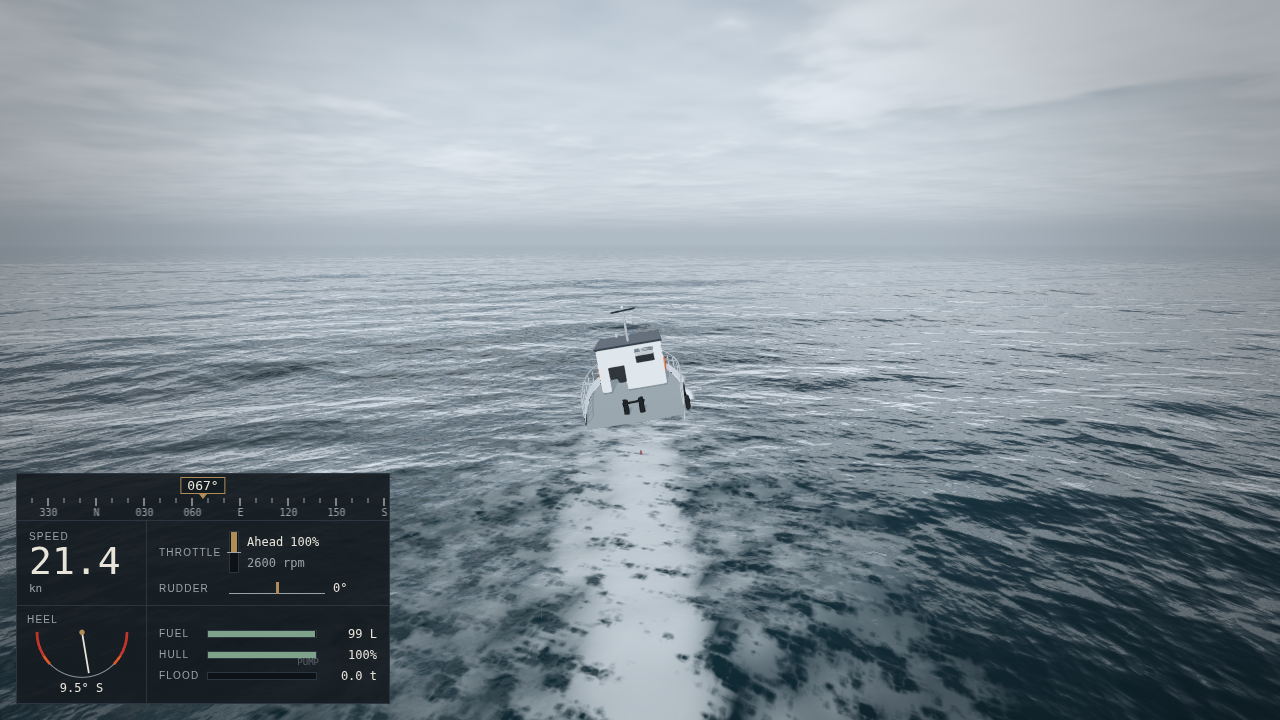
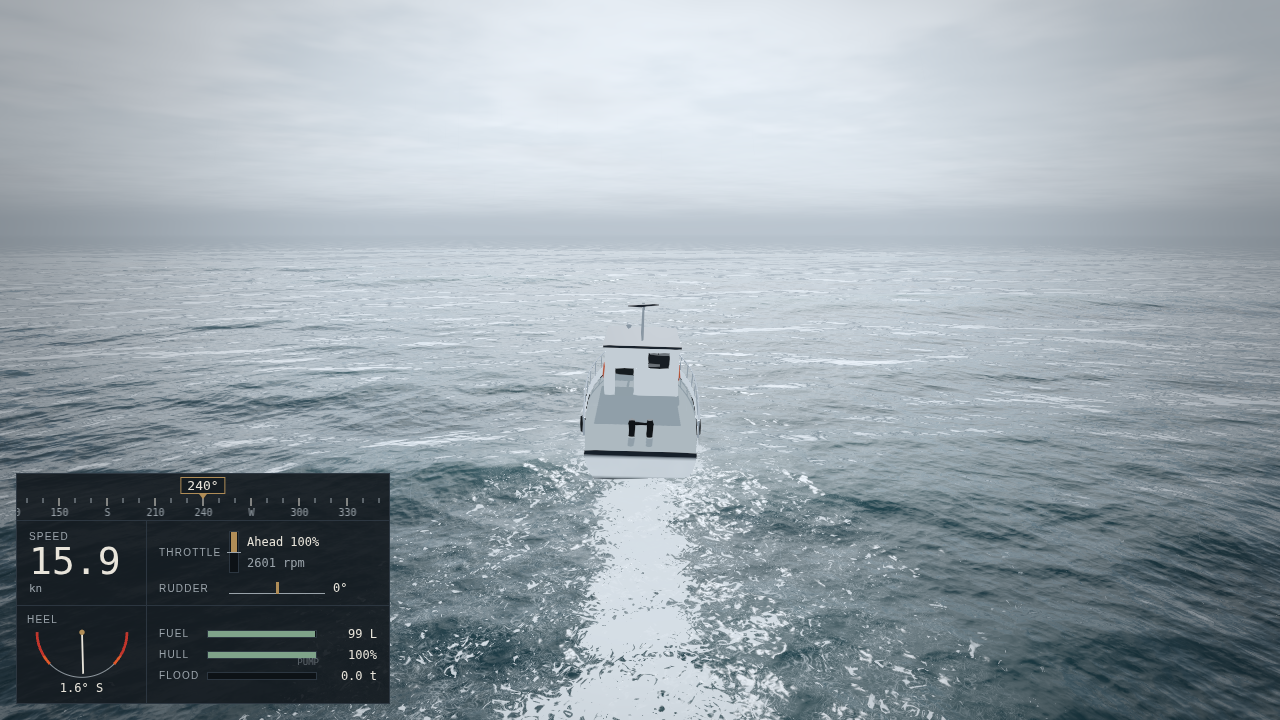
V3 docs: PROGRESS, CHANGELOG, README controls, screenshots
Claude-Session: https://claude.ai/code/session_017Su6rcrj4izoRMC3peEWqU

diff --git a/docs/PROGRESS.md b/docs/PROGRESS.md
@@ -1,48 +1,45 @@
 # Breakwater — Progress
 
 ## Current milestone
-**V2 — Boat physics: complete.** Next session starts **V3 — Towing & rescue mechanics**.
+**V3 — Towing & rescue: complete.** Next session starts **V4 — World & career**.
 
-## NEXT (V3)
-1. `TowLine.js`: spring-damper with slack (k from 15% stretch at break), snatch loads, 0.25 s / 1.5× break rules, winch Q/Z (10–120 m), auto-tension upgrade hook. Attach with Space (8 m, < 3 kn) at the `towPoint`/`bowCleat` empties.
-2. `RopeVisual.js`: 40-node Verlet rope, floats on the surface, straightens and drips when taut.
-3. `TowTarget.js`: sailboat + trawler hulls reusing `HullShape`/`BoatPhysics` (32 buoyancy points, no engine).
-4. Survivors (bobbing, drifting), life raft, pull-aboard (E), hypothermia timers, capacity.
-5. Flooding (deck-edge immersion, free-surface shift), pumps, hull damage + grounding (needs seabed stub until V4 depth map), repairs.
-6. Tow panel HUD; F8 scenario spawner.
-7. Physics tests: Marlin tows trawler ~8 kn; snatch ratio > 2× in Rough; break at rating; auto-tension −30% peak.
-8. Scripted scenario test (autopilot helper) for one tow and one rescue.
+## NEXT (V4)
+1. The Grey Reach: `DepthMap.js` from a real depth map (replaces the V3 shoal stub), islands/terrain, shallows and reefs (grounding already works against `depthAt`), harbors + piers, buoys, lighthouses, vegetation, ambient traffic.
+2. Jobs (6 types) on top of `Operations` (tow + rescue rules already exist), radio, job board, reputation, economy, shipyard, upgrades (auto-tension winch = `TowLine.autoTension`, autopilot = `Autopilot.js`), save/load.
+3. Chart (M), minimap, guided first job (spec 15); repairs move from the F8 stub to the port.
+4. Kestrel and Bulwark configs + physics tests; container targets (8 buoyancy points, 3 daisy-chained lines).
+5. `npm run sim:economy`.
 
 ## Known issues
+- Towing from the aft bitt makes the Marlin yaw off course under load (it "girts"); realistic, but the player needs rudder. Revisit with a tow hook further forward if it feels bad.
+- Rope visual reads well to ~150 m; beyond that it thins to a 1 px line.
+- Survivors aboard are drawn seated on the aft deck, not animated.
+- Target collisions use the same 4-piece convex hulls; contact damage threshold (45 kN) is a guess until V4 docking.
 - Night storm readability waits on V5 lights (searchlight, running lights, flares).
-- Marlin still rolls ±5–10° in Calm chop at speed (quartering sea near roll resonance). Acceptable, tender realistic hull; revisit if it feels wrong in play.
-- Storm at full throttle heels 40–55° but rarely capsizes within 90 s: storms become truly dangerous once V3 flooding (deck-edge water + free surface) lands.
-- Close-range crest foam texture reads slightly "marbled".
-- Hull-number decals are small; barely visible in chase view.
-- Headless verify renders at ~4 fps, so the sim runs at half speed there (MAX_STEPS cap); real play is 60 Hz.
-- Blender is not installed in the cloud env: `tools/blender/generate_boats.py` is written but untested; the game uses the procedural model (manifest lists no .glb).
+- Headless verify renders at ~4 fps; screenshots are staged with `advance()` and paused frames (spec 0.2 allows setup placement).
+- Blender is not installed in the cloud env: generators untested; the game uses procedural models.
 
 ## Screenshot review (`docs/shots/`)
-- `v1-calm-noon.png`, `v1-rough-golden.png`, `v1-storm-night.png`: unchanged from V1 (see CHANGELOG).
-- `v2-rough-pitching.png`: Marlin side-on in Rough, bow lifting over a swell. Model is clean but plain (procedural).
-- `v2-wake.png`: turbulent white wake with breakup and faint Kelvin arms. Wake could be narrower near the transom.
-- `v2-bow-spray.png`: head seas in Rough; slam spray lit grey-white by the overcast. Spray particles are soft discs; fine at gameplay distance.
+- `v1-*`: unchanged scenes; the new Worley foam reads as froth rather than marble in `v1-rough-golden`.
+- `v2-rough-pitching.png`, `v2-wake.png`: hull now carries waterline grime and dirt runs; the wake is bubbly froth with lacy edges; water is darker against the hull.
+- `v2-bow-spray.png`: slam spray now shows droplet streaks plus mist (droplets were invisible before).
+- `v3-tow-taut.png`: Marlin towing the trawler in Rough on 28 m of line, line taut (10 kN), tow panel up. Trawler model is simple but reads.
+- `v3-pull-aboard.png`: survivor being hauled up the Marlin's side (60%), hypothermia bar and prompt visible.
 
-## Decisions (V2)
-- **D15 Hull form:** one parametric hull (superellipse sections, `HullShape.js`) shared by rendering, voxelization, colliders and the Blender generator, so visual and physics waterlines always match.
-- **D16 Marlin draft 0.75 → 0.55 m, fullness 2.8 → 2.0:** at 0.75 m the hull displaced 17.9 m³ vs the 8.8 m³ that 9 t needs. Now the volume scale factor is 0.94 (physically consistent) instead of 0.49.
-- **D17 Voxel symmetry:** starboard half clustered then mirrored (60 points) — removes a 0.3° spurious static heel.
-- **D18 Wave kinematics:** orbital velocity decays with depth, exp(−k·depth), per component. Surface velocity at every point made short chop yank the hull sideways.
-- **D19 Physics wave LOD:** components shorter than ~4× the buoyancy point spacing (~1.6 m) fade out of the physics sample (same smoothstep as the shader's vertex LOD). Ripples are visual-only as the spec says.
-- **D20 Heave damping in world space:** vertical drag acts on world-vertical velocity relative to the water. In the hull frame, forward speed on a trimmed hull became a 60+ kN fake "lift" that rolled the boat over at speed (capsized in Moderate).
-- **D21 Speed-dependent damping + skeg:** sway/heave linear damping grows with forward speed (hull lift damping), and lateral resistance is weighted aft (aftBias 0.9) for directional stability; kills the 39° snap-roll when putting the helm hard over at full speed (now a steady 8°).
-- **D22 Reverse thrust:** efficiency 0.45 × a factor that falls with forward speed (1 − 0.6·v/vProp, min 0.3) instead of rising; with the spec's formula the Marlin stopped in 23 m vs 60 m.
-- **D23 Prop wash on the rudder only when going ahead** (the rudder is behind the prop). Makes reverse steering weak, per spec.
-- **D24 Marlin tuning (before → after):** thrustMax 21 kN → 9.2 kN, vPropMax 13.8 → 26 m/s, long drag 70 → 21, rudder area 0.5 → 0.25 m², washK 1.6 → 1.0, VCG 0.62 → 0.9 m, roll gyration 0.36B → 0.25B, vertical lin damping 30 000 → 4 000. Results: 21.6 kn, 11.6 s to 15 kn, 57 m stop, 3.3 L circle, 4.96 s roll, 66.7° vanishing angle.
-- **D25 Hollow wheelhouse:** walls built around window openings with glass, console, wheel and seat, so the helm camera sees out.
-- **D26 Input press counting:** key presses are counted (not a set), so several W presses within one frame all register.
-- **D27 Model manifest:** `public/models/manifest.json` lists generated .glb files; the loader only fetches listed models (no 404s), else procedural.
-- Earlier V1 decisions D1–D14: see `docs/CHANGELOG.md`.
+## Decisions (V3)
+- **D28 Spray droplet winding:** the screen-space corner frame must be a rotation, `perp = (dir.y, -dir.x)`; material also DoubleSide as a guard.
+- **D29 Tow line as a physics link:** computed once per step from both bodies (before their force pass) so forces are exactly equal and opposite.
+- **D30 Line damping:** c = 2·0.12·√(k·m_eff) with m_eff the reduced mass; k = B / (0.15·L) so shorter lines are stiffer.
+- **D31 Auto-tension renders against the running mean load** (8 s mean × 1.35, floor 5% of rating), not an absolute threshold: real snatch peaks in Rough are only ~18% of the Marlin's 80 kN rating, so an absolute 30% threshold never acted. Result: −44% peak.
+- **D32 Trawler:** 16 m, 25 t, VCG 0.15 m (0.85 m was initially unstable), drag long quad 290 / lin 420 → 7.9 kn at full throttle under tow (target 8).
+- **D33 Snatch baseline:** "steady state" = mean tension towing at the same throttle in calm water.
+- **D34 Flooding:** green water 0.22 t/s per metre of deck-edge immersion; leak up to 3.5 t/min at 0% integrity (so a badly holed Marlin out-leaks her 2 t/min pump); founder at 60% of reserve buoyancy then sinks at 1.5 t/s. No freeing-port drain (spec: pumps only).
+- **D35 Pull-aboard:** 4.2 m from the hull side at < 2.5 kn, 2.5 s haul; survivors add 85 kg each on deck (overloading matters).
+- **D36 Hypothermia minutes:** calm 14, moderate 11, rough 9, gale 7, storm 5.5; ×4 in a raft.
+- **D37 Seabed stub:** one rocky shoal at (620, −520), radius 90 m, 0.3 m minimum depth, until the V4 depth map.
+- **D38 Verify budget:** physics tests in a parallel process; two browser lanes; V1 shots share one page, V2 wake reuses the pitching page, V3 pull-aboard reuses the tow page.
+- **D39 Gameplay rules are pure JS** (`Operations`), so the scripted tow and rescue run headless through exactly the player's code path.
+- Earlier decisions D1–D27: see `docs/CHANGELOG.md`.
 
 ## Polish backlog
 - Rain impact ripples, lens droplets, helm window rain, storm front wall — V5.
@@ -52,4 +49,6 @@
 - Engine sound voicing for Kestrel (outboard) and Bulwark (slow diesel) — V4.
 - Planing lift (Kestrel) — V4.
 - Wiper animation in helm view.
-- Water on deck visuals when flooding (V3).
+- Water on deck visuals when flooding.
+- Survivor boarding animation (climb the ladder) and seated crew animation.
+- Tow hook forward of the transom for better steering under tow.

diff --git a/docs/CHANGELOG.md b/docs/CHANGELOG.md
@@ -1,5 +1,23 @@
 # Changelog
 
+## V3 — Towing & rescue
+- Spray rewrite finished: instanced camera-facing droplets + mist from a procedural atlas, sky + forward-scattering (Henyey-Greenstein) sun lighting. Droplets had never rendered: their corner frame used `perp = (-dir.y, dir.x)`, a reflection, so every droplet quad wound backwards and was back-face culled (mist used a true rotation). Now thin motion-blurred streaks with a landing fade.
+- Foam: tileable two-scale Worley bubble texture (`FoamBubbles.js`); crest foam and wakes threshold its equalised coverage field (dense froth with holes → lace of bubble walls), domain-warped, fading to mean coverage at range. Replaces the marbled fbm breakup.
+- Hull footprint painted into the foam RT's G channel each frame; the ocean darkens and loses its sky reflection against hulls. Hull weathering (`hullGrime.js`): waterline scum band, deck-edge runs, paint blotches, roughness variation.
+- `TowLine.js`: spring-damper with slack, k from 15% stretch at break, damping from the reduced mass, 0.25 s / 1.5× break rules, Q/Z winch (10–120 m, hauling stalls under load), auto-tension render winch relative to the running mean load. Runs as a `PhysicsWorld` link before the bodies' force pass.
+- `RopeVisual.js`: 40-node Verlet line; floats slack on the surface, straightens to a catenary when taut, drips, whips free on a break and is hauled back; rope-lay normal-mapped tube whose radius grows with distance.
+- Tow targets: 25 t trawler and 5 t sloop on `HullShape`/`BoatPhysics` with `NoPropulsion`, 32 buoyancy points, procedural models (`TargetModels.js`).
+- Survivors and life rafts (`Survivors.js`): wave/current/wind drift, hypothermia timers by sea state (rafts ×4), E to pull aboard (4.2 m from the hull, < 2.5 kn, capacity), deck payload; pump hose to a flooding target.
+- `Hull.js`: green water over the deck edge, free-surface shift of flood water, leaks below 60% integrity, rated pumps, foundering at 60% of reserve buoyancy; contact-force damage (Rapier events); grounding on a `DepthMap` stub shoal with friction, damage and scrape audio; repairs (port stub).
+- `Operations.js` (pure JS rules shared by the game and tests), `Autopilot.js` (heading PD + speed schedule), `OpsSession.js` (keys → commands, visuals, audio, HUD).
+- HUD: tow panel (length, winch state, tension gauge with peak hold and ok/warn/crit zones, target condition, tow speed), objective block (bearing/distance, hypothermia bar, survivors aboard), prompts, toasts. Sfx: snap, creak > 70%, clunk, splash, scrape.
+- Debug: F8 scenario spawner (`?scenario=` too), `__game.spawn/setupTow/setupPickup/view/viewTow/look/render`.
+- Tests: trawler/sloop flotation and stability, tow speed, Rough snatch ratio, break at rating, instant break, auto-tension, scripted tow + rescue via the autopilot, flooding, grounding (30 tests, ~43 s). Verify runs physics in parallel and two browser lanes with page reuse (~160 s).
+- Fix: entering orbit mode no longer jumps the camera by the boat's travel since the last orbit frame.
+
+## V2 decisions (moved from PROGRESS)
+D15 one parametric hull for render/physics/Blender · D16 Marlin draft 0.55 m, fullness 2.0 · D17 mirrored voxel halves · D18 depth-decayed orbital velocity · D19 physics wave LOD by point footprint · D20 world-space heave damping · D21 speed-dependent damping + aft-biased lateral resistance · D22 reverse thrust falls with speed · D23 prop wash on the rudder only ahead · D24 Marlin tuning (thrust 9.2 kN, vProp 26 m/s, drag, VCG 0.9 m…) · D25 hollow wheelhouse · D26 counted key presses · D27 model manifest.
+
 ## V2 — Boat physics
 - Parametric hull (`HullShape.js`), ray-parity voxelizer (fine 0.2 m grid → 60 symmetric buoyancy points), volume scaled to float at the design waterline.
 - `Buoyancy.js`: per-point buoyancy, anisotropic drag (hull-frame sway/surge, world-frame heave), speed-dependent hull damping, aft-weighted lateral resistance, slamming impulses + events; depth-attenuated wave orbital velocity; wave LOD by point footprint.

diff --git a/README.md b/README.md
@@ -19,10 +19,14 @@ npm run test:physics # headless physics / wave tests only
 | X | Throttle to neutral |
 | A / D | Rudder (returns to centre; hold Shift to lock) |
 | C | Camera: chase / helm / orbit |
+| Space | Pass the tow line (stern within 8 m of a target's bow, under 3 kn) / cast off |
+| Q / Z | Winch: pay out / haul in (10–120 m) |
+| E | Pull a survivor aboard (alongside, under 2.5 kn) / pass the pump hose |
 
 ## Debug URL parameters
 
-- `?debug=1` enables F3 (overlay), F6 (cycle sea state), F7 (+3 h), F9 (buoyancy points).
+- `?debug=1` enables F3 (overlay), F6 (cycle sea state), F7 (+3 h), F8 (scenario spawner: trawler, sailboat, sinking trawler, survivors, life raft, repair, clear), F9 (buoyancy points).
+- `scenario=trawler,survivors,...` spawns F8 scenarios at start; `autotension` fits the auto-tension winch.
 - `state=calm|moderate|rough|gale|storm`, `hour=0..24`, `freeze` (stop the clock), `quality=low|medium|high|ultra`, `look=<compass deg>&camY=<m>` (orbit camera framing), `heading=<deg>` (boat spawn heading), `cam=chase|helm|orbit`.
 
 Full controls and a complete README arrive with V6.
